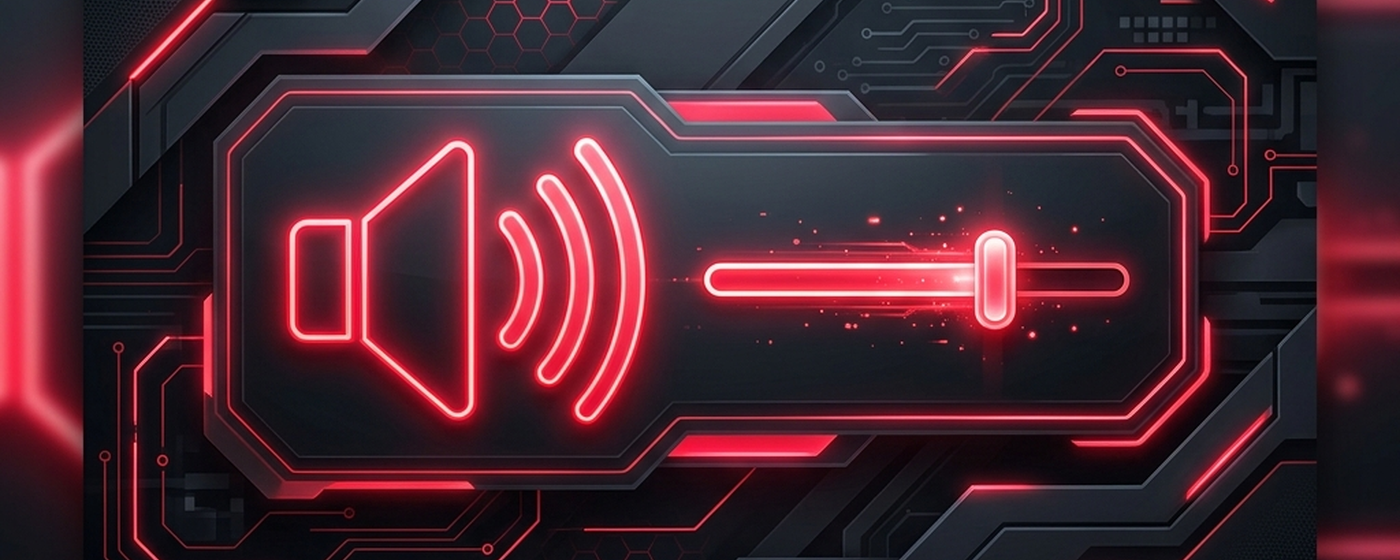
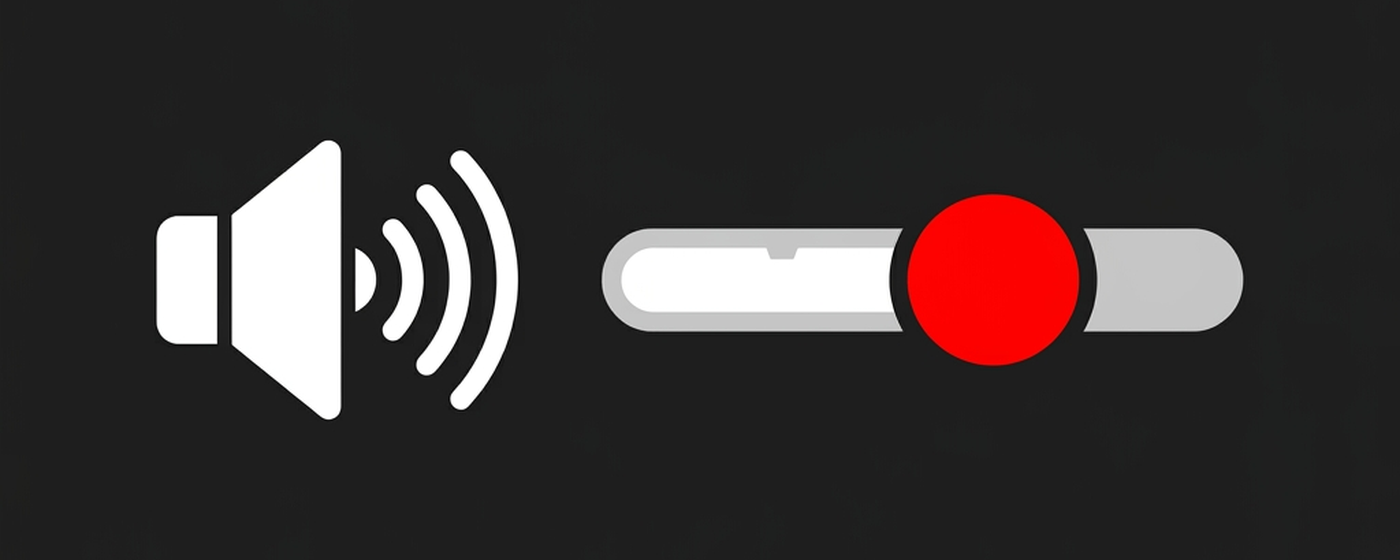
Update promotional tiles to clean flat vector style

diff --git a/process_promo_tiles.py b/process_promo_tiles.py
@@ -2,7 +2,7 @@ import os
 from PIL import Image, ImageOps
 
 # Source banner path
-source_banner_path = r"C:\Users\Kapil\.gemini\antigravity\brain\3da15ee2-2336-4d88-b7df-fbd6e6026647\promo_banner_raw_1781353987445.png"
+source_banner_path = r"C:\Users\Kapil\.gemini\antigravity\brain\3da15ee2-2336-4d88-b7df-fbd6e6026647\promo_banner_clean_1781354027857.png"
 
 # Destination paths
 extension_dir = r"C:\Users\Kapil\.gemini\antigravity\scratch\youtube-volume-bar-extension"